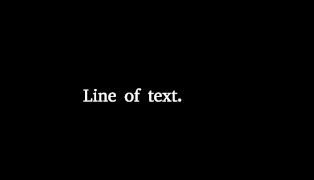
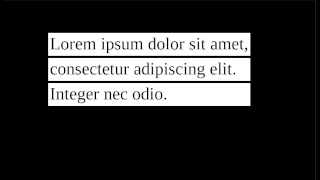
Multiline defaults change

Changed region(s): [[0.1433, 0.1667, 0.8025, 0.6111], [0.9745, 0.0, 1.0, 1.0]]

diff --git a/flowblade-trunk/Flowblade/res/mediaplugins/text_1/multiline_animation.py b/flowblade-trunk/Flowblade/res/mediaplugins/text_1/multiline_animation.py
@@ -14,10 +14,13 @@ def init_script(fctx):
     fctx.set_author("Janne Liljeblad")
 
     fctx.add_editor("Text", fluxity.EDITOR_TEXT_AREA, "Lorem ipsum dolor sit amet,\nconsectetur adipiscing elit.\nInteger nec odio.")
-    fctx.add_editor("Pos X", fluxity.EDITOR_INT, 500)
-    fctx.add_editor("Pos Y", fluxity.EDITOR_INT, 500)
+    fctx.add_editor("Pos X", fluxity.EDITOR_INT, 200)
+    fctx.add_editor("Pos Y", fluxity.EDITOR_INT, 200)
     fctx.add_editor("Centering", fluxity.EDITOR_OPTIONS, (0, ["Off", "Center", "Center Horizontal", "Center Vertical"]))
-    fctx.add_editor("Font", fluxity.EDITOR_PANGO_FONT, fluxity.EDITOR_PANGO_FONT_DEFAULT_VALUES)
+    font_default_values = ("Liberation Serif", "Regular", 80, Pango.Alignment.LEFT, (0.0, 0.0, 0.0, 1.0), \
+                       True, (0.3, 0.3, 0.3, 1.0) , False, 2, False, (0.0, 0.0, 0.0), \
+                       100, 3, 3, 0.0, None, fluxity.VERTICAL)
+    fctx.add_editor("Font", fluxity.EDITOR_PANGO_FONT, font_default_values)
     fctx.add_editor("Line Gap", fluxity.EDITOR_INT, 30)
     fctx.add_editor("Lines Delay Frames", fluxity.EDITOR_INT_RANGE, (0, 0, 50))
     fctx.add_editor("Line Y Offset", fluxity.EDITOR_INT, -5)
@@ -26,21 +29,21 @@ def init_script(fctx):
                         "From Down Clipped", "From Left", "From Right", "From Up", \
                         "From Down", "Reveal Horizontal", "Reveal Vertical", "Reveal Left", "Reveal Right"]))
     fctx.add_editor("Movement In", fluxity. EDITOR_OPTIONS, (1,["Linear", "Ease In", "Ease Out", "Stepped"]))
-    fctx.add_editor("Frames In", fluxity.EDITOR_INT, 20)
+    fctx.add_editor("Frames In", fluxity.EDITOR_INT, 12)
     fctx.add_editor("Steps In", fluxity.EDITOR_INT_RANGE, (3, 2, 10))
     fctx.add_editor("Fade In Frames", fluxity.EDITOR_INT_RANGE, (0, 0, 200))
-    fctx.add_editor("Fade In Type", fluxity.EDITOR_OPTIONS, (0,["Linear", "Compact Linear"]))
+    fctx.add_editor("Fade In Type", fluxity.EDITOR_OPTIONS, (1,["Linear", "Compact Linear"]))
     fctx.add_editor("Animation Type Out", fluxity. EDITOR_OPTIONS, \
                     (1, ["None", "To Left Clipped", "To Right Clipped", "To Up Clipped", \
                         "To Down Clipped", "To Left", "To Right", "To Up", \
                         "To Down", "Reveal Horizontal", "Reveal Vertical", "Reveal Left", "Reveal Right"]))
     fctx.add_editor("Movement Out", fluxity. EDITOR_OPTIONS, (2, ["Linear", "Ease In", "Ease Out", "Stepped"]))
-    fctx.add_editor("Frames Out", fluxity.EDITOR_INT, 20)
+    fctx.add_editor("Frames Out", fluxity.EDITOR_INT, 12)
     fctx.add_editor("Steps Out", fluxity.EDITOR_INT_RANGE, (3, 2, 10))
     fctx.add_editor("Fade Out Frames", fluxity.EDITOR_INT_RANGE, (0, 0, 200))
-    fctx.add_editor("Fade Out Type", fluxity.EDITOR_OPTIONS, (0,["Linear", "Compact Linear"]))
+    fctx.add_editor("Fade Out Type", fluxity.EDITOR_OPTIONS, (1,["Linear", "Compact Linear"]))
     fctx.add_editor("Background", fluxity.EDITOR_OPTIONS, (2, ["No Background", "Solid", "Lines Solid", "Lines Word Length Solid", "Lines Solid Screen Width", "Box", "Horizontal Lines", "Underline", "Strikethrought"]))
-    fctx.add_editor("Background Color", fluxity.EDITOR_COLOR, (0.8, 0.5, 0.2, 1.0))
+    fctx.add_editor("Background Color", fluxity.EDITOR_COLOR, (1.0, 1.0, 1.0, 1.0))
     fctx.add_editor("Background Line Width", fluxity.EDITOR_INT, 3)
     fctx.add_editor("Background Opacity", fluxity.EDITOR_INT_RANGE, (100, 0, 100))
     fctx.add_editor("Background Pad", fluxity.EDITOR_INT, 10)
@@ -96,7 +99,6 @@ def render_frame(frame, fctx, w, h):
 
     mla = MultiLineAnimation(fctx)
     mla.draw(cr, fctx, frame)
-
 
 
 class MultiLineAnimation:
